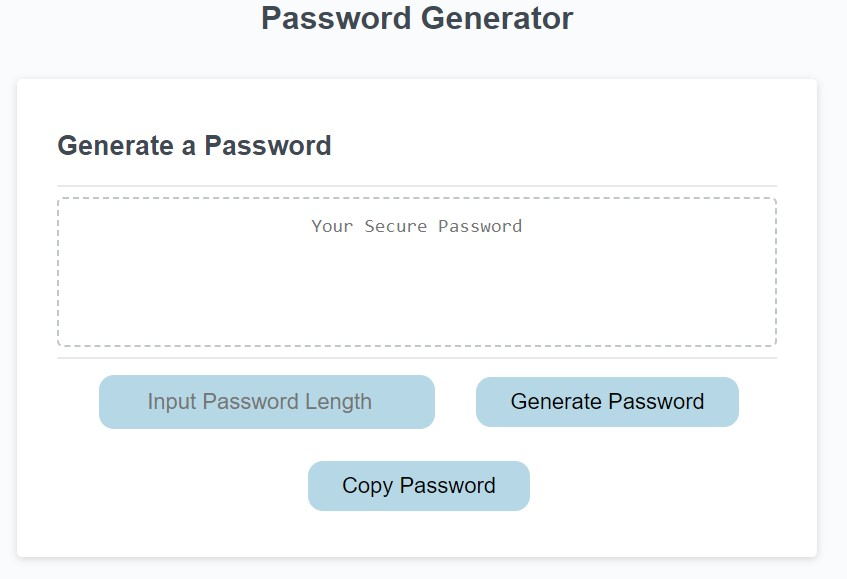
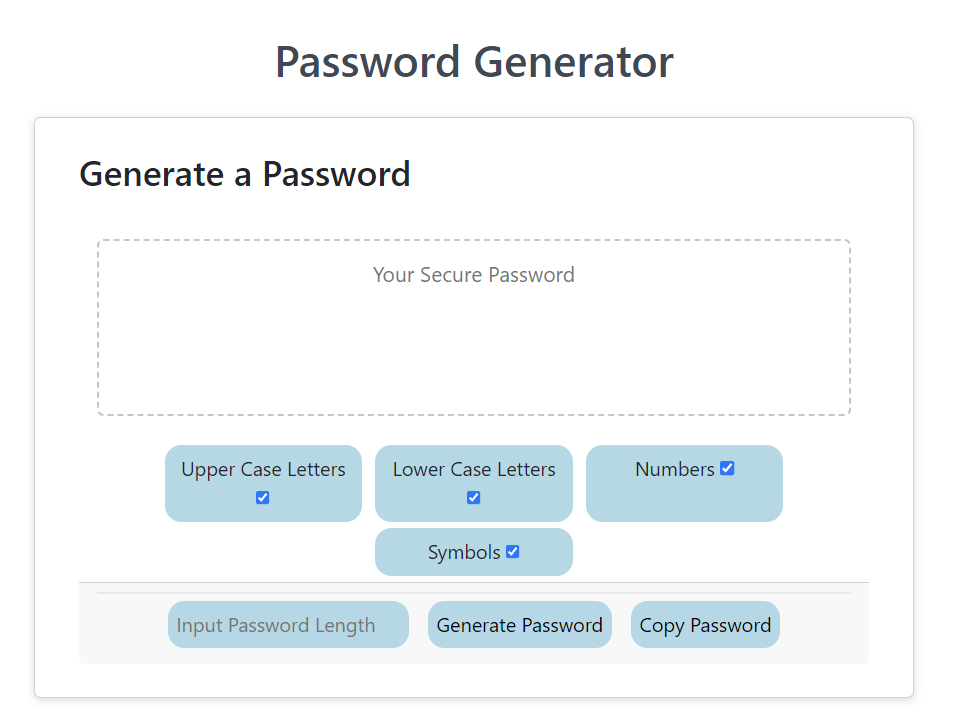
Updated layout and design of options

diff --git a/index.html b/index.html
@@ -6,6 +6,17 @@
     <meta http-equiv="X-UA-Compatible" content="ie=edge" />
     <title>Password Generator</title>
     <link rel="stylesheet" href="style.css" />
+    <link
+      href="https://cdn.jsdelivr.net/npm/bootstrap@5.3.0/dist/css/bootstrap.min.css"
+      rel="stylesheet"
+      integrity="sha384-9ndCyUaIbzAi2FUVXJi0CjmCapSmO7SnpJef0486qhLnuZ2cdeRhO02iuK6FUUVM"
+      crossorigin="anonymous"
+    />
+    <script
+      src="https://cdn.jsdelivr.net/npm/bootstrap@5.3.0/dist/js/bootstrap.bundle.min.js"
+      integrity="sha384-geWF76RCwLtnZ8qwWowPQNguL3RmwHVBC9FhGdlKrxdiJJigb/j/68SIy3Te4Bkz"
+      crossorigin="anonymous"
+    ></script>
   </head>
   <body>
     <div class="wrapper">
@@ -13,7 +24,7 @@
         <h1>Password Generator</h1>
       </header>
       <div class="card">
-        <div class="card-header">
+        <div class="card-title">
           <h2>Generate a Password</h2>
         </div>
         <div class="card-body">
@@ -24,33 +35,36 @@
             aria-label="Generated Password"
           ></textarea>
         </div>
-
+        <div class="container text-center">
+          <div class="row justify-content-center">
+            <div class="checkbox col-md-2">
+              Upper Case Letters
+              <input id="upperCase" type="checkbox" checked />
+            </div>
+            <div class="checkbox col-md-2">
+              Lower Case Letters
+              <input id="lowerCase" type="checkbox" checked />
+            </div>
+            <div class="checkbox col-md-2">
+              Numbers
+              <input id="numbers" type="checkbox" checked />
+            </div>
+            <div class="checkbox col-md-2">
+              Symbols
+              <input id="symbols" type="checkbox" checked />
+            </div>
+          </div>
+        </div>
         <div class="card-footer">
-          <div class="checkbox">
-            Upper Case Letters
-            <input id="upperCase" type="checkbox" checked />
-          </div>
-          <div class="checkbox">
-            Lower Case Letters
-            <input id="lowerCase" type="checkbox" checked />
-          </div>
-          <div class="checkbox">
-            Numbers
-            <input id="numbers" type="checkbox" checked />
-          </div>
-          <div class="checkbox">
-            Symbols
-            <input id="symbols" type="checkbox" checked />
-          </div>
           <input
             type="number"
             id="passwordLength"
-            class="btn"
+            class="boxes"
             placeholder="Input Password Length"
             onblur="writePassword()"
           />
-          <button id="generate" class="btn">Generate Password</button>
-          <button id="copy" class="btn" onclick="copyPassword()">
+          <button id="generate" class="boxes">Generate Password</button>
+          <button id="copy" class="boxes" onclick="copyPassword()">
             Copy Password
           </button>
         </div>

diff --git a/style.css b/style.css
@@ -72,16 +72,12 @@ header {
   clear: both;
 }
 
-.btn {
+.checkbox,.boxes {
   border: none;
   background-color: rgb(173, 216, 230);
   border-radius: 15px;
-  display: inline-block;
-  font-size: 22px;
-  line-height: 22px;
-  margin: 16px 16px 16px 20px;
-  padding: 14px 34px;
-  text-align: center;
+  margin: 6px;
+  padding: 8px;
   cursor: pointer;
 }
 
